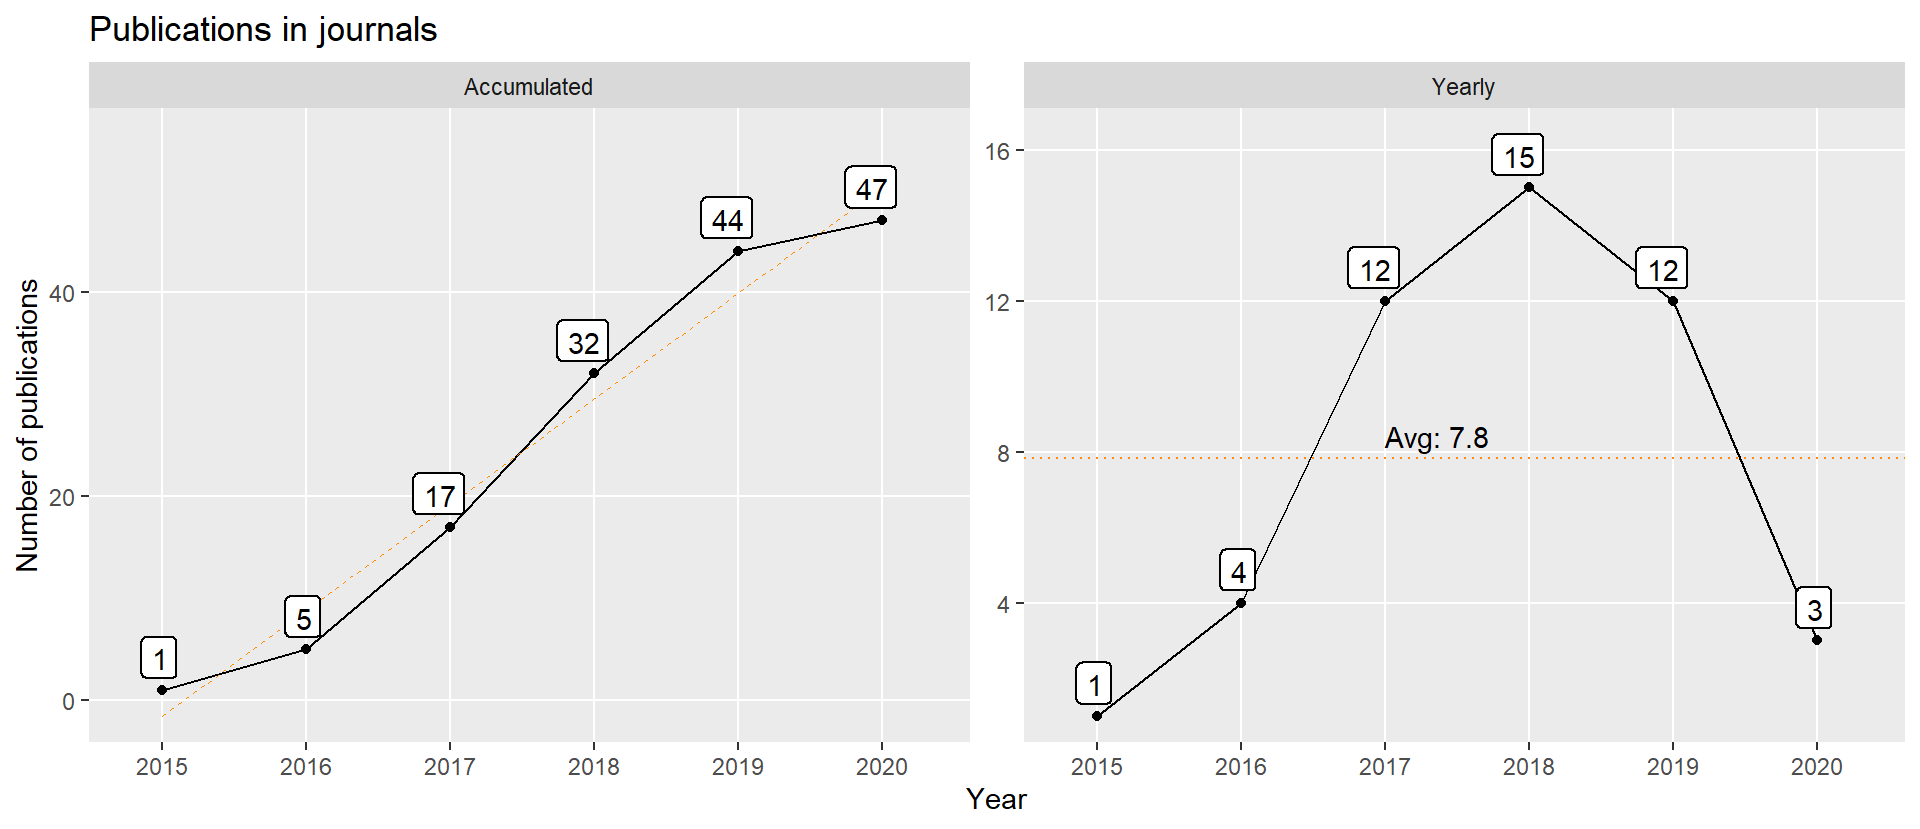
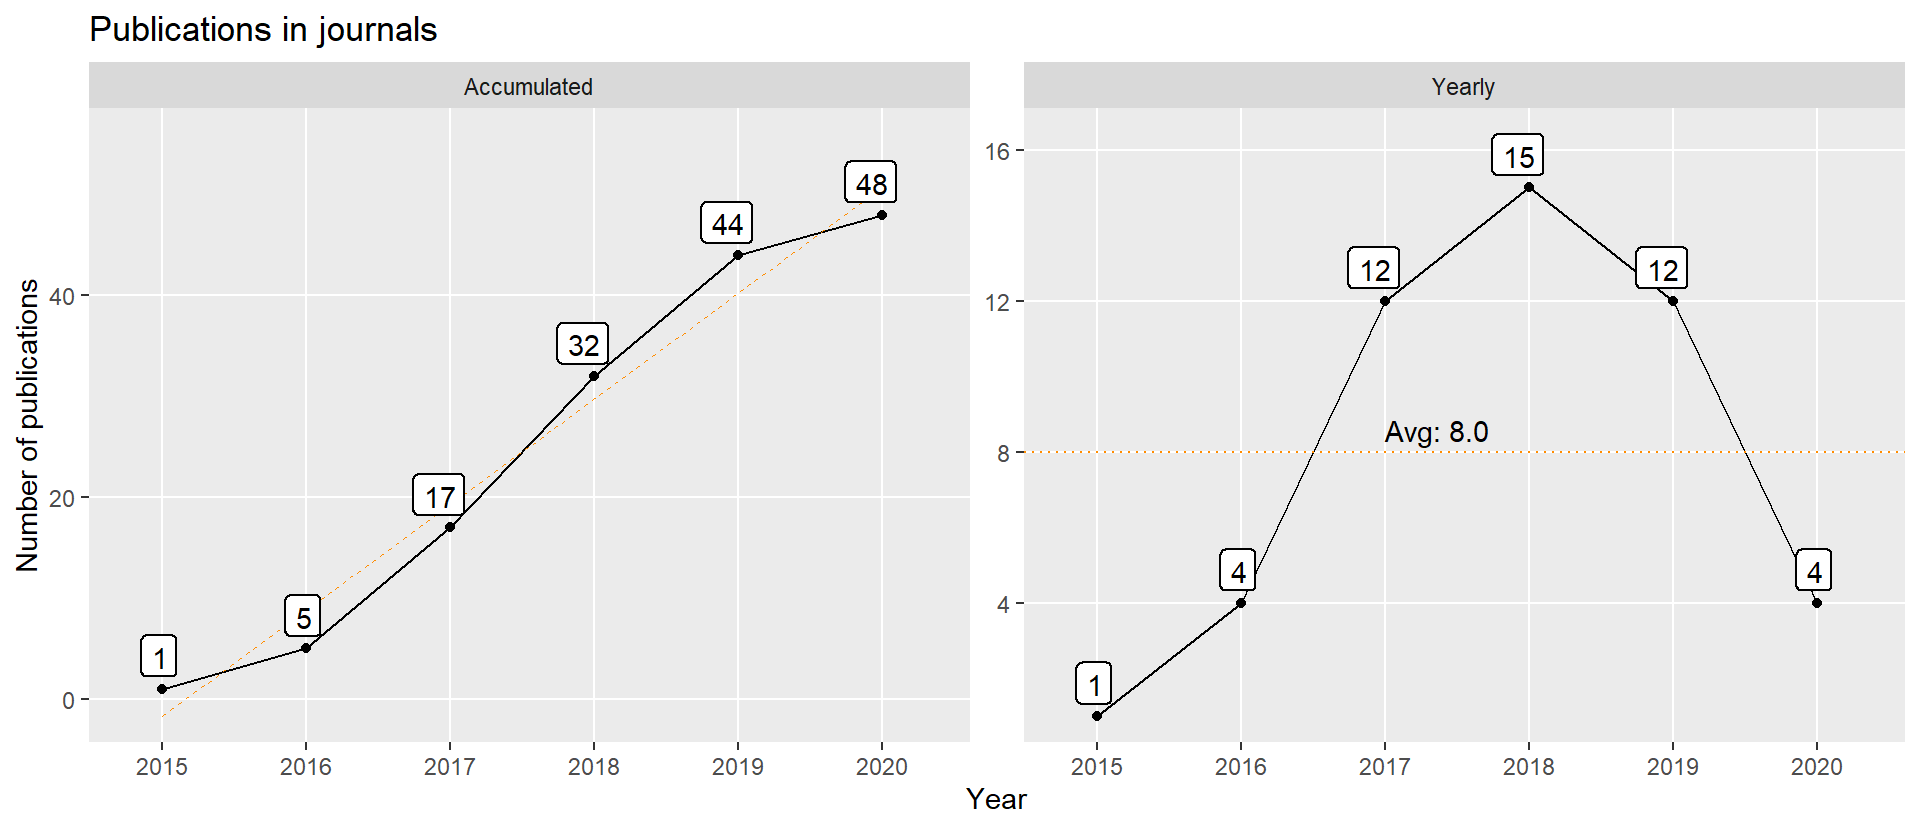
Update site

diff --git a/content/publication/my-md-folder/Diel2020b.md b/content/publication/my-md-folder/Diel2020b.md
@@ -1,0 +1,27 @@
++++
+title = "Canonical correlations in agricultural research: method of interpretation used leads to greater reliability of results"
+date = "2020-01-01"
+publication_types = ["2"]
+authors = ["Diel M.", "Lucio A.", "Michalski Lambrecht D.", "Pinheiro M.", "Sari B.", "Olivoto T.", "Valera O.", "De Melo P.", "Tartaglia F.", "Tischler A.", "Schmidt D."]
+publication = "In: **International Journal for Innovation Education and Research**, 8(7):171--181, https://doi.org/10.31686/ijier.vol8.iss7.2464, https://ijier.net/ijier/article/view/2464"
+abstract = "Canonical correlations analyzes are being used in the agrarian sciences and constitute an important tool in the interpretation of results. This analysis is performed by complicated mathematical equations and it is only possible to use it thanks to the development of computational software, which allow different interpretations of results, and it is up to the researcher to choose according to his knowledge. Canonical correlations can be interpreted using canonical weights, canonical loadings, or canonical cross-loadings. In Brazil, most of the works that use these analyzes interpret the canonical weights. Therefore, this study aims to show, through an analysis of canonical correlations, the best way to interpret the results, so that they are presented in the most reliable way possible. Data from an experiment with two cultivars of biquinho pepper seeded in 5 light spectrums were performed. The variables were root length and volume, plant height, number of leaves, fresh shoot and root mass, shoot dry mass. Two groups of variables were organized, the multicollinearity was determined through the condition number and the inflation factor of the variance. Canonical correlations analysis was carried out, and weights, loadings, and canonical cross-loadings were estimated for the interpretation of the results. After the interpretations, it was defined that the canonical cross-loadings should be preferred for the interpretation of the canonical correlations. Weights or canonical coefficients provide dubious results of relationships between groups of characters and should be avoided."
+abstract_short = ""
+tags = ["Canonical loadings", "Cross-loadings", "Keyword: Canonical weights", "Methods", "Methods Keywords: Canonical weights"]
+image_preview = ""
+selected = false
+projects = []
+url_pdf = ""
+url_preprint = ""
+url_code = ""
+url_dataset = ""
+url_project = ""
+url_slides = ""
+url_video = ""
+url_poster = ""
+url_source = ""
+math = true
+highlight = true
+[header]
+image = ""
+caption = ""
++++
